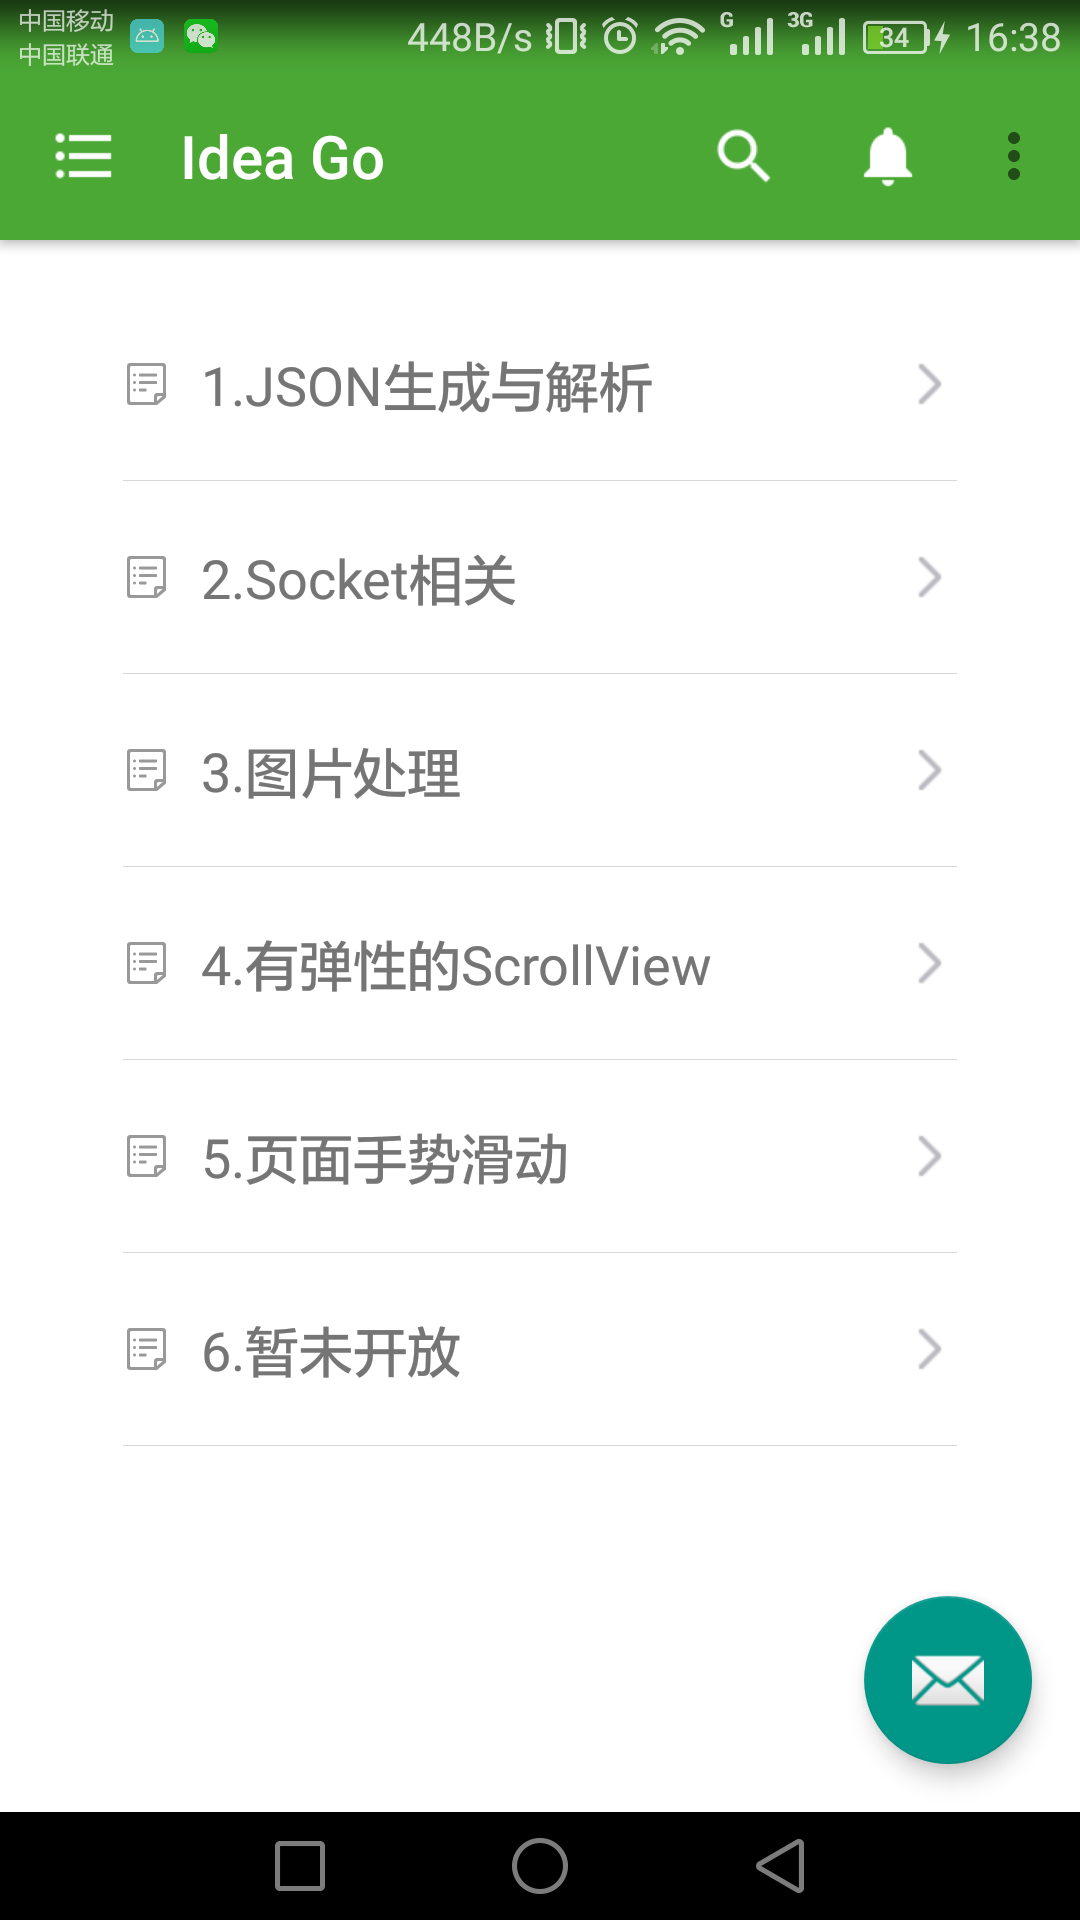
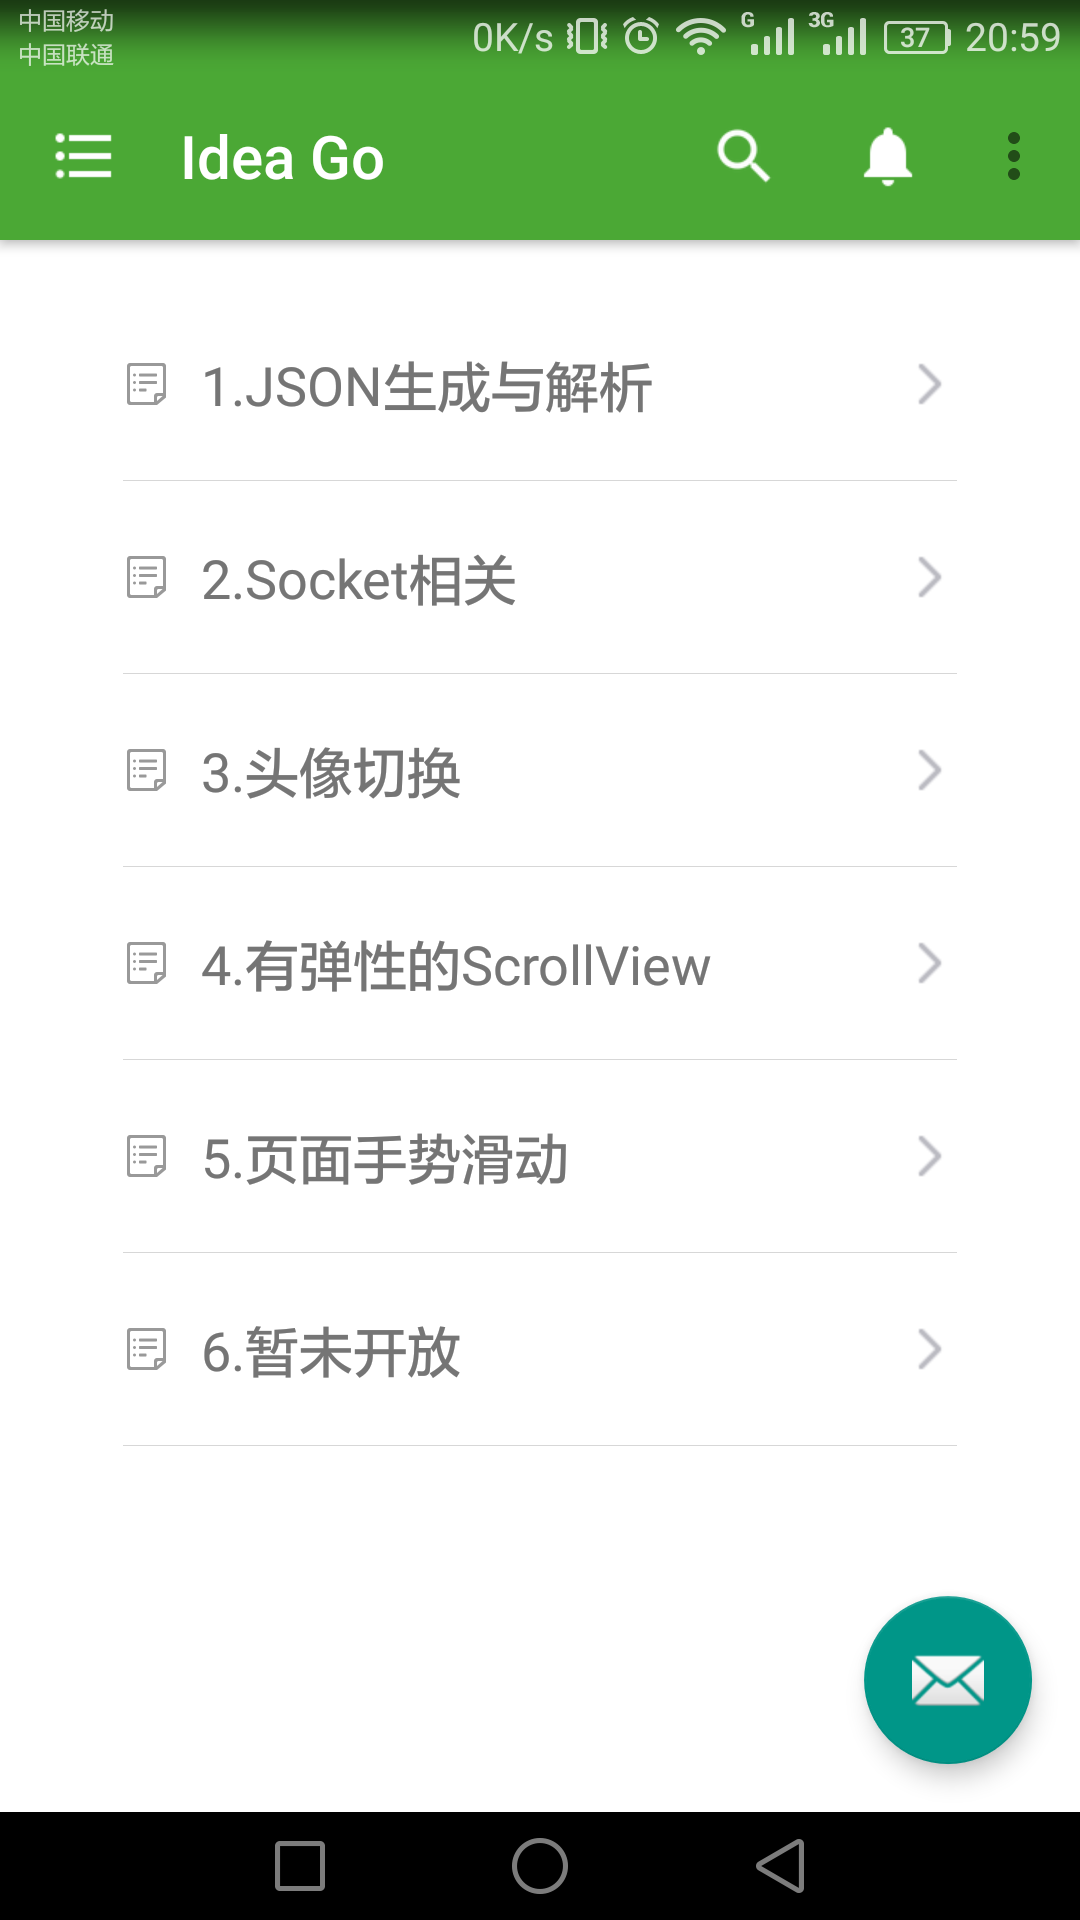
删没必要的代码

Changed region(s): [[0.3667, 0.0, 0.9778, 0.0312], [0.2139, 0.375, 0.4278, 0.4375], [0.1222, 0.0, 0.2139, 0.0312]]

diff --git a/app/src/main/java/com/wj/demo/ui/activity/DemoChangeProtraitActivity.java b/app/src/main/java/com/wj/demo/ui/activity/DemoChangeProtraitActivity.java
@@ -1,0 +1,70 @@
+package com.wj.demo.ui.activity;
+
+import android.content.Intent;
+import android.support.v7.widget.Toolbar;
+import android.view.View;
+import android.widget.ImageView;
+import android.widget.RelativeLayout;
+import android.widget.TextView;
+
+import com.wj.demo.R;
+import com.wj.demo.ui.base.BaseActivity;
+import com.wj.library.helper.ProfileHelper;
+import com.wj.library.helper.ToolbarHelper;
+import com.wj.library.util.ImageUtils;
+
+/**
+ * @version 1.0
+ * 个人信息
+ * @author idea_wj 2016-03-13
+ */
+public class DemoChangeProtraitActivity extends BaseActivity {
+    private static final String TAG = DemoChangeProtraitActivity.class.getSimpleName();
+
+    private RelativeLayout rlProfile;
+    private ImageView ivProtrait;
+    private Toolbar toolbar;
+    private TextView tvTitle;
+
+    private ProfileHelper profileHelper;
+
+    public void initView() {
+        setContentView(R.layout.activity_demo_change_protrait);
+        ivProtrait = (ImageView)findViewById(R.id.iv_portrait);
+        rlProfile = (RelativeLayout)findViewById(R.id.rl_profile);
+        toolbar = (Toolbar)findViewById(R.id.toolbar);
+        tvTitle = (TextView)findViewById(R.id.tv_title);
+        rlProfile.setOnClickListener(this);
+
+        ToolbarHelper.initToolbar(this,toolbar,R.mipmap.ic_back);
+        tvTitle.setText("替换切换");
+    }
+
+    public void initData() {
+        profileHelper = new ProfileHelper(this);
+    }
+
+    @Override
+    protected void myOnClick(View view) {
+        super.myOnClick(view);
+        switch (view.getId()) {
+            case R.id.rl_profile:
+                profileHelper.openProfile();
+                break;
+        }
+    }
+
+    @Override
+    protected void onActivityResult(final int requestCode, int resultCode, final Intent data) {
+        super.onActivityResult(requestCode, resultCode, data);
+        if (resultCode != RESULT_OK)
+            return;
+        profileHelper.resultSet(requestCode, data, new ProfileHelper.CallbackProfileListener() {
+
+            @Override
+            public void callbackProfile(String filePath) {
+                ivProtrait.setImageBitmap(ImageUtils.loadResBitmap(filePath,4));
+            }
+        });
+    }
+}

diff --git a/library_wj/src/main/java/com/wj/library/helper/ProfileHelper.java b/library_wj/src/main/java/com/wj/library/helper/ProfileHelper.java
@@ -7,6 +7,8 @@ import android.net.Uri;
 import android.os.Build;
 import android.os.Environment;
 import android.provider.MediaStore;
+import android.support.v7.app.AppCompatActivity;
+import android.util.Log;
 import android.widget.ImageView;
 
 import com.wj.library.R;
@@ -23,9 +25,9 @@ import java.io.File;
  * @version 1.0
  */
 public class ProfileHelper {
-    private static final String TAG = ProfileHelper.class.getName();
+    private static final String TAG = ProfileHelper.class.getSimpleName();
 
-    private Activity activity;
+    private AppCompatActivity activity;
 
     private Uri cropUri;
     private Uri origUri;  //头像照片，拍完后尚未处理的路径
@@ -37,7 +39,7 @@ public class ProfileHelper {
     public static final int ACTION_TYPE_PHOTO = 1;  // 相机
     public static final int ACTION_GETIMAGE_BYSDCARD = 2;  //照相和相册结果都是从sd中获取
 
-    public ProfileHelper(Activity activity){
+    public ProfileHelper(AppCompatActivity activity){
         this.activity = activity;
     }
 
@@ -119,7 +121,7 @@ public class ProfileHelper {
      * @param intent
      * @param callbackProfileListener 回调显示
      */
-    public void resultSet(int requestCode, Intent intent, ImageView imageView, CallbackProfileListener callbackProfileListener){
+    public void resultSet(int requestCode, Intent intent, CallbackProfileListener callbackProfileListener){
         if(requestCode==ACTION_TYPE_PHOTO) { //拍照
             startActionCrop(origUri);
         }if(requestCode== ACTION_TYPE_ALBUM){ //相册获取

diff --git a/app/src/main/java/com/wj/demo/ui/activity/DemoJsonActivity.java b/app/src/main/java/com/wj/demo/ui/activity/DemoJsonActivity.java
@@ -1,9 +1,7 @@
 package com.wj.demo.ui.activity;
 
 import android.content.DialogInterface;
-import android.os.Bundle;
 import android.support.v7.widget.Toolbar;
-import android.view.MenuItem;
 import android.view.View;
 import android.widget.Button;
 import android.widget.TextView;
@@ -13,7 +11,6 @@ import com.wj.demo.ui.base.BaseActivity;
 import com.wj.library.helper.DialogHelper;
 import com.wj.library.helper.ToastHelper;
 import com.wj.library.helper.ToolbarHelper;
-import com.wj.library.helper.UIHelper;
 
 import org.json.JSONArray;
 import org.json.JSONException;
@@ -28,8 +25,8 @@ import org.json.JSONTokener;
  * Created by wuj on 2016/6/3.
  * @version 1.0
  */
-public class JsonDemoActivity extends BaseActivity {
-    private static String TAG = JsonDemoActivity.class.getSimpleName();
+public class DemoJsonActivity extends BaseActivity {
+    private static String TAG = DemoJsonActivity.class.getSimpleName();
 
     private TextView tvJson;
     private Button btCreate;  //生成
@@ -47,7 +44,7 @@ public class JsonDemoActivity extends BaseActivity {
 
     @Override
     protected void initView() {
-        setContentView(R.layout.activity_json);
+        setContentView(R.layout.activity_demo_json);
         tvJson = (TextView) findViewById(R.id.tv_json);
         btCreate = (Button) findViewById(R.id.bt_create);
         btResolve = (Button) findViewById(R.id.bt_resolve);

diff --git a/app/src/main/java/com/wj/demo/ui/activity/MainActivity.java b/app/src/main/java/com/wj/demo/ui/activity/MainActivity.java
@@ -22,7 +22,7 @@ import java.util.ArrayList;
 public class MainActivity extends BaseActivity {
     private static String TAG = MainActivity.class.getName();
 
-    private RecyclerView rvItem;
+    private RecyclerView rvItem;  //使用了recyclerView
     private Toolbar toolbar;
     private AdapterRecyclerItem adapterRecyclerItem;
     private ArrayList<Item> items;
@@ -79,7 +79,7 @@ public class MainActivity extends BaseActivity {
 
         Item item1 = new Item();
         item1.setName("1.JSON生成与解析");
-        item1.setActivity(JsonDemoActivity.class);
+        item1.setActivity(DemoJsonActivity.class);
         items.add(item1);
 
         Item item2 = new Item();
@@ -87,12 +87,13 @@ public class MainActivity extends BaseActivity {
         items.add(item2);
 
         Item item3 = new Item();
-        item3.setName("3.图片处理");
+        item3.setName("3.头像切换");
+        item3.setActivity(DemoChangeProtraitActivity.class);
         items.add(item3);
 
         Item item4 = new Item();
         item4.setName("4.有弹性的ScrollView");
-        item4.setActivity(ElasticScorllViewDemoActivity.class);
+        item4.setActivity(DemoElasticScorllViewActivity.class);
         items.add(item4);
 
         Item item5 = new Item();

diff --git a/library_wj/src/main/java/com/wj/library/helper/CommonHelper.java b/library_wj/src/main/java/com/wj/library/helper/CommonHelper.java
@@ -1,7 +1,6 @@
 package com.wj.library.helper;
 
 import android.annotation.TargetApi;
-import android.app.Activity;
 import android.content.ContentUris;
 import android.content.Context;
 import android.content.pm.ApplicationInfo;
@@ -11,6 +10,7 @@ import android.net.Uri;
 import android.os.Environment;
 import android.provider.DocumentsContract;
 import android.provider.MediaStore;
+import android.support.v7.app.AppCompatActivity;
 import android.util.Base64;
 import android.util.Log;
 
@@ -106,7 +106,7 @@ public class CommonHelper {
      * @date 2014-10-12
      */
     @TargetApi(19)
-    public static String getImageAbsolutePath(Activity context, Uri imageUri) {
+    public static String getImageAbsolutePath(AppCompatActivity context, Uri imageUri) {
         if (context == null || imageUri == null)
             return null;
         if (android.os.Build.VERSION.SDK_INT >= android.os.Build.VERSION_CODES.KITKAT && DocumentsContract.isDocumentUri(context, imageUri)) {

diff --git a/app/src/main/java/com/wj/demo/ui/activity/DemoElasticScorllViewActivity.java b/app/src/main/java/com/wj/demo/ui/activity/DemoElasticScorllViewActivity.java
@@ -13,15 +13,15 @@ import com.wj.library.helper.ToolbarHelper;
  * Created by wuj on 2016/6/3.
  * @version 1.0
  */
-public class ElasticScorllViewDemoActivity extends BaseActivity {
-    private static String TAG = ElasticScorllViewDemoActivity.class.getSimpleName();
+public class DemoElasticScorllViewActivity extends BaseActivity {
+    private static String TAG = DemoElasticScorllViewActivity.class.getSimpleName();
 
     private Toolbar toolbar;
     private TextView tvTitle;
 
     @Override
     protected void initView() {
-        setContentView(R.layout.activity_elastic_srocllview);
+        setContentView(R.layout.activity_demo_elastic_srocllview);
         toolbar = (Toolbar)findViewById(R.id.toolbar);
         tvTitle = (TextView)findViewById(R.id.tv_title);
         tvTitle.setText("有弹性的ScrollView");

diff --git a/library_wj/src/main/java/com/wj/library/base/MyBaseApplication.java b/library_wj/src/main/java/com/wj/library/base/MyBaseApplication.java
@@ -12,20 +12,14 @@ public class MyBaseApplication extends Application {
 
     private static MyBaseApplication myBaseApplication;
 
-    /**
-     * 多线程，双重锁定
-     * @return
-     */
+
+    @Override
+    public void onCreate() {
+        super.onCreate();
+        myBaseApplication = this;
+    }
+
     public static MyBaseApplication getInstance(){
-
-        if(myBaseApplication ==null){
-            synchronized (MyBaseApplication.class){
-                if(myBaseApplication ==null){   //涉及到异步问题
-                    myBaseApplication = new MyBaseApplication();
-                }
-            }
-        }
-
         return myBaseApplication;
     }
 

diff --git a/library_wj/src/main/java/com/wj/library/util/FileUtil.java b/library_wj/src/main/java/com/wj/library/util/FileUtil.java
@@ -29,6 +29,7 @@ public class FileUtil {
      * @param path
      */
     public static boolean createCachePath(String path, Context context){
+
         String savePath = "";
         String storageState = Environment.getExternalStorageState();
         if (storageState.equals(Environment.MEDIA_MOUNTED)) {
@@ -148,10 +149,7 @@ public class FileUtil {
             return false;
         File file = null;
         file = new File(filePath);
-        if (!file.exists()) {
-            return false;
-        }
-        return true;
+        return file.exists();
     }
 
     /**
